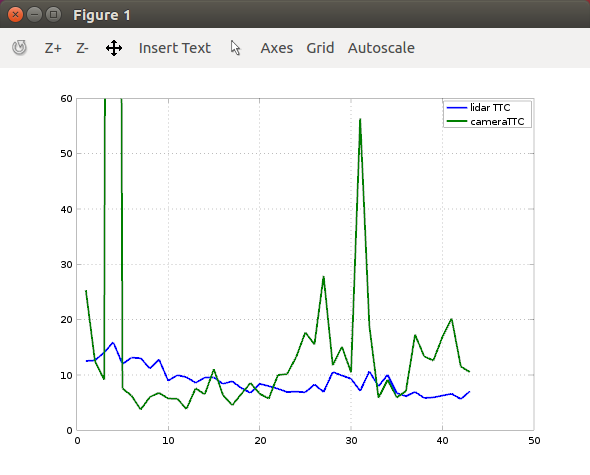
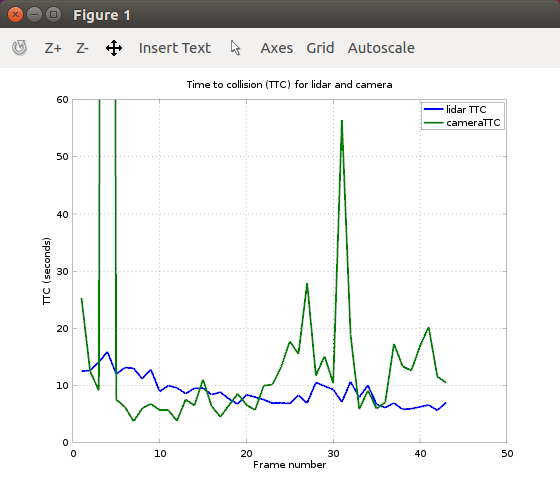
updated script and figure

diff --git a/scripts/plotTTC.m b/scripts/plotTTC.m
@@ -13,3 +13,7 @@ plot(lidarTTC); hold all;
 plot(cameraTTC);
 legend("lidar TTC", "cameraTTC");
 grid on
+xlabel("Frame number")
+ylabel("TTC (seconds)");
+ylim([0,60])
+title("Time to collision (TTC) for lidar and camera")
